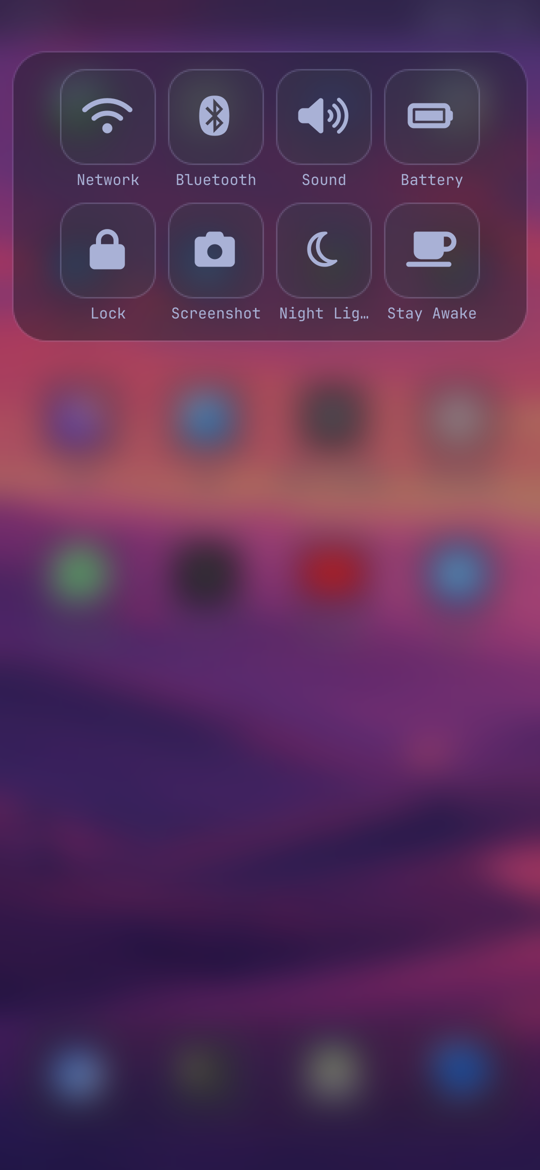
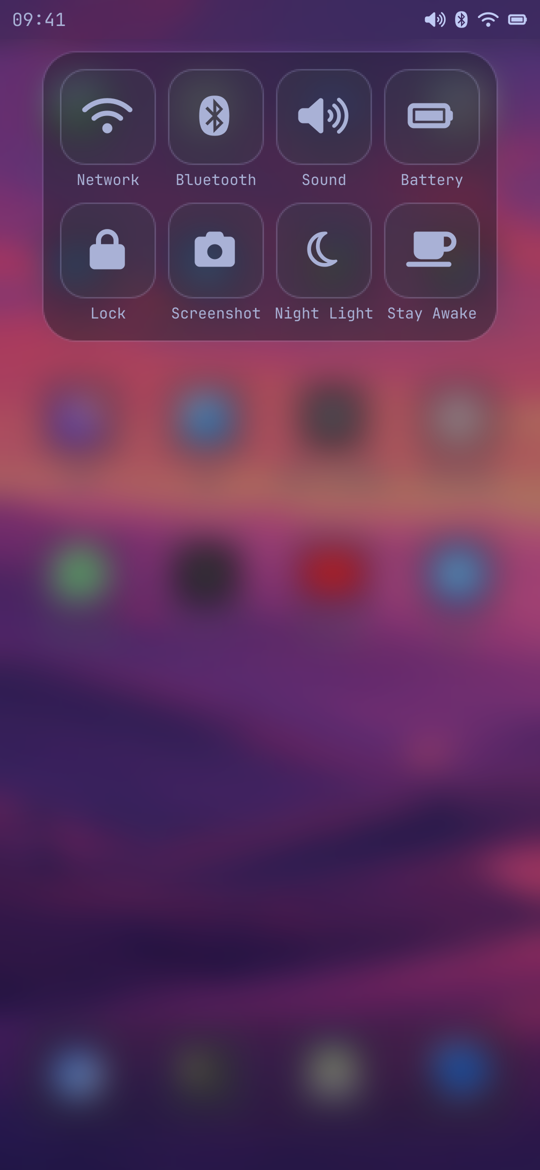
Control centre: sound/display in the default row, hidden widgets skipped, bar left visible, even padding; home swipe keeps the page from an app
Claude-Session: https://claude.ai/code/session_01J9uck1ZWaLdYKHYACHGGK2

diff --git a/agent-work/plugins/phone-bar/Bar.qml b/agent-work/plugins/phone-bar/Bar.qml
@@ -8,6 +8,7 @@ pragma ComponentBehavior: Bound
 
 import QtQuick
 import Quickshell
+import Quickshell.Hyprland
 import Quickshell.Wayland
 import qs.Commons
 
@@ -49,6 +50,8 @@ Item {
   // right section carries seven widgets: more than 360 logical px has room for.
   readonly property var defaultStatusEntries: [
     { id: "dev.omarchyphone.keyboard" },
+    { id: "omarchy.audio" },
+    { id: "omarchy.monitor" },
     { id: "omarchy.bluetooth" },
     { id: "omarchy.network" },
     { id: "omarchy.power" }
@@ -80,9 +83,11 @@ Item {
     widgetItems = next
   }
 
-  function unregisterWidgetItem(widgetId) {
+  // Only if the entry is still this item: with a second screen there are two
+  // bars, and one being destroyed must not drop the other's live widget.
+  function unregisterWidgetItem(widgetId, item) {
     var id = String(widgetId || "")
-    if (!widgetItems[id]) return
+    if (!widgetItems[id] || widgetItems[id] !== item) return
     var next = ({})
     for (var key in widgetItems) if (key !== id) next[key] = widgetItems[key]
     widgetItems = next
@@ -231,20 +236,25 @@ Item {
   // longer takes the old "workspace empty" form -- its arguments are Lua now --
   // hence eval (NOTES.md).
   //
-  // Only from a workspace that has windows. "empty" resolves to the lowest
-  // empty workspace anywhere, not the current one, so swiping up while already
-  // home on workspace 5 would otherwise slide over to an emptier-numbered 3.
+  // From an app: to an empty workspace, and the home screen is on the page it
+  // was left on. Already home: the pager goes back to its first page, as a
+  // second press of an iPhone's home button does. Which case it is comes from
+  // Quickshell's own view of Hyprland, as upstream's workspace widget reads it.
   //
-  // Summoning the home plugin as well sends its pager to the first page. That
-  // happens on every swipe, from an app too, which is one step short of iOS
-  // (it returns to the page you left); the shell cannot tell from here which
-  // case it is in, because the Lua above runs out of process.
+  // The Lua checks again rather than trusting that view: "empty" resolves to
+  // the lowest empty workspace anywhere, not the current one, so dispatching
+  // from an already-empty workspace 5 would slide over to an emptier-numbered 3.
   readonly property string goHomeLua:
     "local w = hl.get_active_workspace(); "
     + "if w and w.windows > 0 then hl.dispatch(hl.dsp.focus({ workspace = \"empty\" })) end"
 
   function goHome() {
-    Quickshell.execDetached(["hyprctl", "eval", goHomeLua])
+    var workspace = Hyprland.focusedWorkspace
+    var home = !!workspace && workspace.toplevels.values.length === 0
+    if (!home) {
+      Quickshell.execDetached(["hyprctl", "eval", goHomeLua])
+      return
+    }
     if (shell && typeof shell.summon === "function") shell.summon(homeId, "")
   }
 
@@ -330,7 +340,8 @@ Item {
   property bool controlOpen: false
 
   // Panels open the upstream panel through summonBarWidget(), which needs the
-  // widget loaded in the status row, so a tile shows only while its widget is.
+  // widget loaded in the status row, so a tile shows only while its widget is
+  // -- which is why audio and monitor are in the default row above.
   // Actions run a command; every one is an existing Omarchy tool.
   //
   // Glyphs are Nerd Font codepoints on the default family, written as escapes
@@ -338,22 +349,26 @@ Item {
   // volume, f240 battery, f108 display, f023 lock, f030 camera, f186 moon,
   // f0f4 cup.
   readonly property var controlTiles: [
-    { panel: "omarchy.network",   icon: "", label: "Network" },
-    { panel: "omarchy.bluetooth", icon: "", label: "Bluetooth" },
-    { panel: "omarchy.audio",     icon: "", label: "Sound" },
-    { panel: "omarchy.power",     icon: "", label: "Battery" },
-    { panel: "omarchy.monitor",   icon: "", label: "Display" },
-    { command: ["omarchy-system-lock"],                               icon: "", label: "Lock" },
-    { command: ["omarchy-capture-screenshot", "fullscreen", "save"],  icon: "", label: "Screenshot" },
-    { command: ["omarchy-toggle-nightlight"],                         icon: "", label: "Night Light" },
-    { command: ["omarchy-toggle-idle"],                               icon: "", label: "Stay Awake" }
+    { panel: "omarchy.network",   icon: "\uf1eb", label: "Network" },
+    { panel: "omarchy.bluetooth", icon: "\uf293", label: "Bluetooth" },
+    { panel: "omarchy.audio",     icon: "\uf028", label: "Sound" },
+    { panel: "omarchy.power",     icon: "\uf240", label: "Battery" },
+    { panel: "omarchy.monitor",   icon: "\uf108", label: "Display" },
+    { command: ["omarchy-system-lock"],                               icon: "\uf023", label: "Lock" },
+    { command: ["omarchy-capture-screenshot", "fullscreen", "save"],  icon: "\uf030", label: "Screenshot" },
+    { command: ["omarchy-toggle-nightlight"],                         icon: "\uf186", label: "Night Light" },
+    { command: ["omarchy-toggle-idle"],                               icon: "\uf0f4", label: "Stay Awake" }
   ]
 
   readonly property var visibleControlTiles: {
     var out = []
     for (var i = 0; i < controlTiles.length; i++) {
       var tile = controlTiles[i]
-      if (tile.panel && !widgetItems[tile.panel]) continue
+      // Registered is not enough: a widget hides itself when its hardware is
+      // absent (bluetooth with no adapter, power with no battery), and a tile
+      // would then open a popup anchored to an item nothing is placing.
+      var widget = tile.panel ? widgetItems[tile.panel] : null
+      if (tile.panel && !(widget && widget.visible)) continue
       out.push(tile)
     }
     return out
@@ -389,7 +404,9 @@ Item {
       root.pendingTile = null
       if (!tile) return
       if (tile.panel) root.summonBarWidget(tile.panel)
-      else if (tile.command) Quickshell.execDetached(tile.command)
+      // Through a login shell, as upstream's own launches are: the capture tool
+      // needs the session environment a bare exec does not carry.
+      else if (tile.command) Util.execArgv(tile.command)
     }
   }
 
@@ -398,20 +415,24 @@ Item {
   component ControlCentre: PanelWindow {
     id: sheetWindow
 
-    // Tiles use the home screen's proportions: four across, a rounded square
-    // at 0.27 of its side, glyph at 0.45. The size is worked out from the width
-    // so four always fit, whatever the theme's font scale does.
+    // Tiles are the home screen's shape -- a rounded square at 0.27 of its
+    // side, the same frosted plate -- four across, with a glyph at 0.45 of the
+    // side where the home screen has an app icon. The size is worked out from
+    // the card's inner width so four always fit, whatever the theme's font
+    // scale does; the card is then sized from the grid, so its padding is even
+    // on all four sides.
     readonly property int pad: Style.spacing.xxl
     readonly property int gap: Style.spacing.lg
-    readonly property int tileSize: Math.min(Style.space(64),
-      Math.floor((Math.min(width, Style.space(420)) - pad * 2 - gap * 3) / 4))
+    readonly property int tileSize: Math.max(0, Math.min(Style.space(64),
+      Math.floor((Math.min(width - gap * 2, Style.space(420)) - pad * 2 - gap * 3) / 4)))
 
     visible: root.controlOpen
     anchors { top: true; bottom: true; left: true; right: true }
     color: "transparent"
 
     WlrLayershell.namespace: "omarchy-phone-control"
-    // Overlay: above the edge strips and any Top-layer panel it replaces.
+    // Overlay: above any Top-layer panel. The edge strips are on Overlay too,
+    // and hide themselves while this is up, so there is no order to rely on.
     WlrLayershell.layer: WlrLayer.Overlay
     WlrLayershell.keyboardFocus: WlrKeyboardFocus.None
     exclusionMode: ExclusionMode.Ignore
@@ -420,8 +441,11 @@ Item {
     // whole screen behind the card is dimmed with the theme's background, and
     // being over the blur rule's ignore_alpha, frosted as well: what is behind
     // recedes, as it does under iOS's control centre.
+    // The bar's own strip is left uncovered, as iOS leaves its status bar.
     Rectangle {
       anchors.fill: parent
+      anchors.topMargin: root.position === "bottom" ? 0 : root.barSize
+      anchors.bottomMargin: root.position === "bottom" ? root.barSize : 0
       color: Util.alpha(Color.background, 0.35)
 
       MouseArea {
@@ -436,7 +460,7 @@ Item {
       anchors.horizontalCenter: parent.horizontalCenter
       anchors.top: parent.top
       anchors.topMargin: (root.position === "bottom" ? 0 : root.barSize) + sheetWindow.gap
-      width: Math.min(parent.width - sheetWindow.gap * 2, Style.space(420))
+      width: tileGrid.width + sheetWindow.pad * 2
       height: tileGrid.height + sheetWindow.pad * 2
       radius: Math.round(sheetWindow.tileSize * 0.27) + sheetWindow.pad / 2
       color: Util.alpha(Color.background, 0.45)
@@ -497,7 +521,9 @@ Item {
 
               anchors.top: controlPlate.bottom
               anchors.topMargin: Style.spacing.xs
-              width: parent.width
+              // The gap to each neighbour is borrowed, so "Night Light" fits.
+              anchors.horizontalCenter: parent.horizontalCenter
+              width: parent.width + sheetWindow.gap
               text: controlTile.modelData.label
               color: Color.foreground
               font.family: Style.font.family
@@ -675,7 +701,7 @@ Item {
             root.registerWidgetItem(widgetId, item)
           }
 
-          Component.onDestruction: root.unregisterWidgetItem(widgetId)
+          Component.onDestruction: root.unregisterWidgetItem(widgetId, item)
         }
       }
     }
